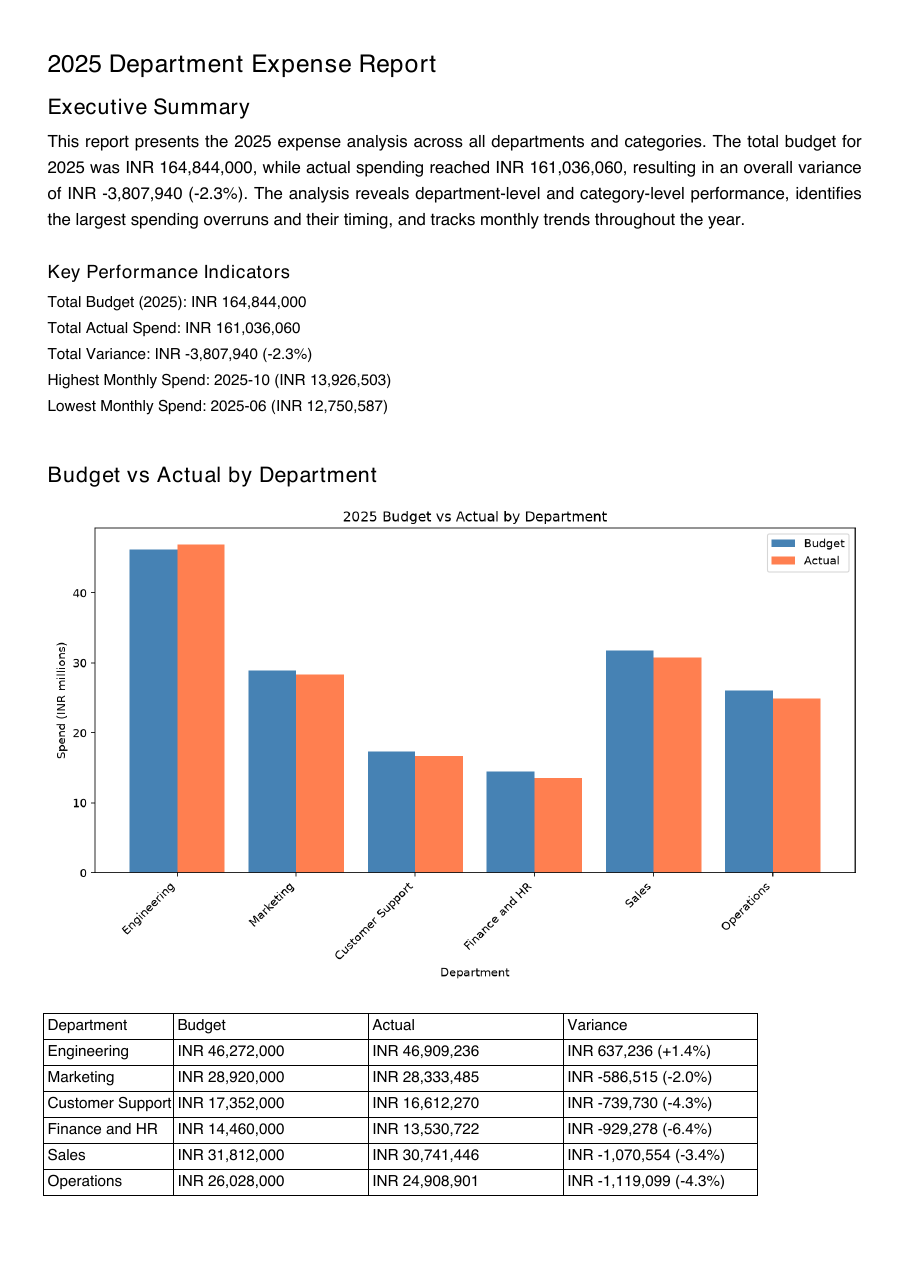
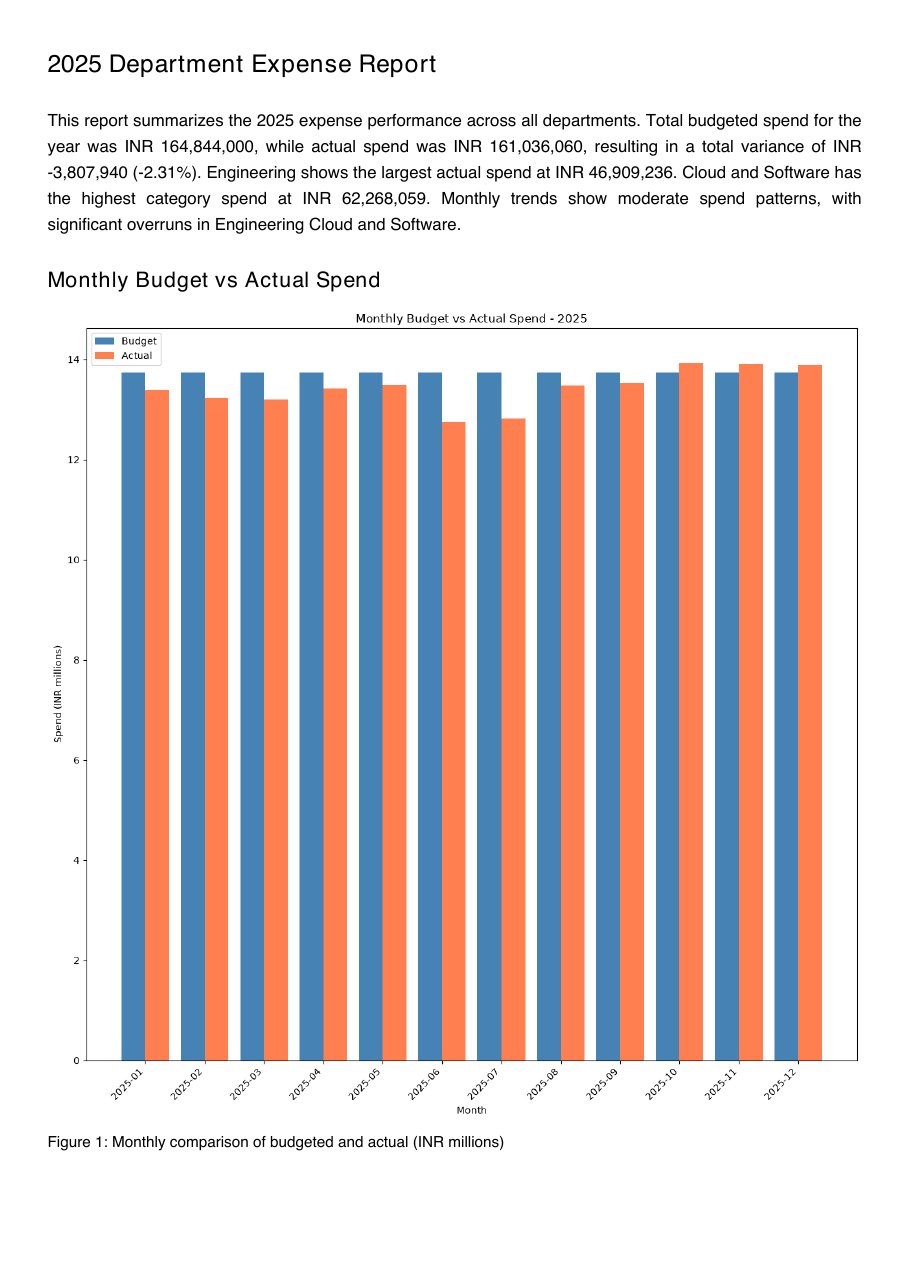
docs: add real-run GIFs and their output to every example README

diff --git a/examples/crewai-python/sandboxed_crew.py b/examples/crewai-python/sandboxed_crew.py
@@ -90,12 +90,12 @@ def _run_crew(sandbox) -> None:
             "Write a Python script to a file that computes the 30th Fibonacci "
             "number, run it with python3, and report the number it printed."
         ),
-        expected_output="The 30th Fibonacci number.",
+        expected_output="Only the number the script printed, with no other text.",
         agent=analyst,
     )
 
     result = Crew(agents=[analyst], tasks=[task], verbose=False).kickoff()
-    print(f"\n  result: {str(result).strip()[:200]}")
+    print(f"\n  result: {str(result).strip()}")
 
 
 if __name__ == "__main__":

diff --git a/examples/playwright-python/README.md b/examples/playwright-python/README.md
@@ -2,6 +2,10 @@
 
 Run a real headless browser inside a sandbox, screenshot a page and pull the image back to your machine. The sandbox can reach only the hosts the install and the page need.
 
+<p align="center">
+  <img src="../../assets/runs/playwright-python.gif" alt="A real run of this example, recorded in a terminal" width="720">
+</p>
+
 ```bash
 python3.12 -m venv .venv
 source .venv/bin/activate
@@ -19,7 +23,7 @@ On Windows, see the [setup guide](../../docs/setup.md#windows) for the PowerShel
 Output:
 
 ```
-  sandbox ready: pw-96d36691
+  sandbox ready: pw-dae6cc9f
   installing playwright (a few minutes on first run)
   page title: Example Domain
   saved screenshot.png (71386 bytes)
@@ -27,6 +31,12 @@ Output:
 
   sandbox deleted
 ```
+
+The screenshot that run saved, taken by the browser inside the sandbox:
+
+<p align="center">
+  <img src="../../assets/playwright-screenshot.png" alt="example.com as rendered by headless Chromium inside the sandbox" width="560">
+</p>
 
 The whole run took about five minutes, most of it installing the browser and its system packages.
 

diff --git a/examples/openai-agents-sdk-python/README.md b/examples/openai-agents-sdk-python/README.md
@@ -6,6 +6,10 @@ An Agents SDK agent with a sandbox as its tool.
 this works against any OpenAI-compatible endpoint — including NeevCloud's own
 inference API, which is what the commands below point at.
 
+<p align="center">
+  <img src="../../assets/runs/openai-agents-sdk-python.gif" alt="A real run of this example, recorded in a terminal" width="720">
+</p>
+
 ## Run it
 
 ```bash
@@ -25,6 +29,29 @@ python sandbox_agent.py
 On Windows, see the [setup guide](../../docs/setup.md#windows) for the PowerShell commands.
 
 The agent writes `primes.py`, runs it, and reports the output.
+
+Output:
+
+````
+  sandbox ready: oa-92008635
+
+  agent: Here is exactly what it printed:
+
+```
+2
+3
+5
+7
+11
+13
+17
+19
+23
+29
+```
+
+  sandbox deleted
+````
 
 ## Notes
 

diff --git a/examples/crewai-python/README.md b/examples/crewai-python/README.md
@@ -3,6 +3,10 @@
 CrewAI no longer executes code for you. If you enable `allow_code_execution`
 today, the library tells you so itself:
 
+<p align="center">
+  <img src="../../assets/runs/crewai-python.gif" alt="A real run of this example, recorded in a terminal" width="720">
+</p>
+
 ```
 allow_code_execution is deprecated and will be removed in v2.0.
 CodeInterpreterTool is no longer available.
@@ -45,11 +49,9 @@ Optional: `NEEV_MODEL` (defaults to `glm-5-2`).
 Output:
 
 ```
-  sandbox crew-f3e0fec3 ready
+  sandbox crew-65950523 ready
 
-  result: The script computed the 30th Fibonacci number ... printed:
-
-  **832040**
+  result: 832040
 
   sandbox deleted
 ```

diff --git a/examples/langchain-python/README.md b/examples/langchain-python/README.md
@@ -6,6 +6,10 @@ The [langgraph-python](../langgraph-python) example connects over MCP. This one
 uses the Python SDK and plain `@tool` functions, which is shorter when you are
 already writing Python and want to decide exactly what the agent can do.
 
+<p align="center">
+  <img src="../../assets/runs/langchain-python.gif" alt="A real run of this example, recorded in a terminal" width="720">
+</p>
+
 ## Run it
 
 ```bash
@@ -27,7 +31,7 @@ On Windows, see the [setup guide](../../docs/setup.md#windows) for the PowerShel
 Output:
 
 ```
-  sandbox ready: lc-083c9530
+  sandbox ready: lc-787e0123
 
   agent: 80.0
 

diff --git a/examples/hello-world-python/README.md b/examples/hello-world-python/README.md
@@ -2,6 +2,10 @@
 
 The smallest useful thing: create a sandbox, run a command, delete it.
 
+<p align="center">
+  <img src="../../assets/runs/hello-world-python.gif" alt="A real run of this example, recorded in a terminal" width="720">
+</p>
+
 ```bash
 python3.12 -m venv .venv
 source .venv/bin/activate
@@ -19,7 +23,7 @@ On Windows, see the [setup guide](../../docs/setup.md#windows) for the PowerShel
 Output:
 
 ```
-sandbox 01a1103d-833f-7458-9d79-538a9d198c7b is Ready
+sandbox 01a111e0-da7d-7e3b-894f-5d175ed2f082 is Ready
 Linux x86_64
 hello from inside
 deleted

diff --git a/examples/hello-world-js/README.md b/examples/hello-world-js/README.md
@@ -2,6 +2,10 @@
 
 Create a sandbox, run a command, delete it.
 
+<p align="center">
+  <img src="../../assets/runs/hello-world-js.gif" alt="A real run of this example, recorded in a terminal" width="720">
+</p>
+
 ```bash
 npm install
 
@@ -17,7 +21,7 @@ On Windows, see the [setup guide](../../docs/setup.md#windows) for the PowerShel
 Output:
 
 ```
-sandbox 01a1103d-a841-76f9-8841-19bd40a30336 is Ready
+sandbox 01a111e1-6c14-737f-b859-07e616a1bad8 is Ready
 Linux x86_64
 hello from inside
 deleted

diff --git a/examples/langgraph-python/README.md b/examples/langgraph-python/README.md
@@ -7,6 +7,10 @@ at the sandbox MCP endpoint with your API key, and the agent gets the whole
 surface: create a sandbox, run commands, read and write files, manage processes,
 expose ports, snapshot and roll back.
 
+<p align="center">
+  <img src="../../assets/runs/langgraph-python.gif" alt="A real run of this example, recorded in a terminal" width="720">
+</p>
+
 ## What this example shows
 
 Two agents run in sequence. Each one holds a connection bound to its own sandbox

diff --git a/examples/vercel-ai-sdk-js/README.md b/examples/vercel-ai-sdk-js/README.md
@@ -2,6 +2,10 @@
 
 An AI SDK agent whose one tool runs commands on a real Linux machine.
 
+<p align="center">
+  <img src="../../assets/runs/vercel-ai-sdk-js.gif" alt="A real run of this example, recorded in a terminal" width="720">
+</p>
+
 ## Run it
 
 ```bash
@@ -23,7 +27,7 @@ it with `NEEV_MODEL_BASE_URL` for any other OpenAI-compatible provider.
 Output:
 
 ```
-  sandbox ready: ai-sdk-mue2z8as
+  sandbox ready: ai-sdk-muwuuryy
 
   agent: antelope
 

diff --git a/recipes/report-generator-python/README.md b/recipes/report-generator-python/README.md
@@ -7,7 +7,7 @@ Turn a CSV into a finished business report, a PDF and an Excel workbook, without
 </p>
 
 <p align="center">
-  <img src="../../assets/report-generator.png" alt="Page 1 of the expense report the agent built from the bundled sample data" width="420">
+  <img src="../../assets/report-generator.png" alt="Page 1 of the expense report from the run recorded above" width="420">
 </p>
 
 ## What you need

diff --git a/examples/network-egress-python/README.md b/examples/network-egress-python/README.md
@@ -2,6 +2,10 @@
 
 A sandbox reaches only the hosts you name. This creates two sandboxes, one with an allow-list and one with the default policy, and checks from inside each what it can reach.
 
+<p align="center">
+  <img src="../../assets/runs/network-egress-python.gif" alt="A real run of this example, recorded in a terminal" width="720">
+</p>
+
 ```bash
 python3.12 -m venv .venv
 source .venv/bin/activate
